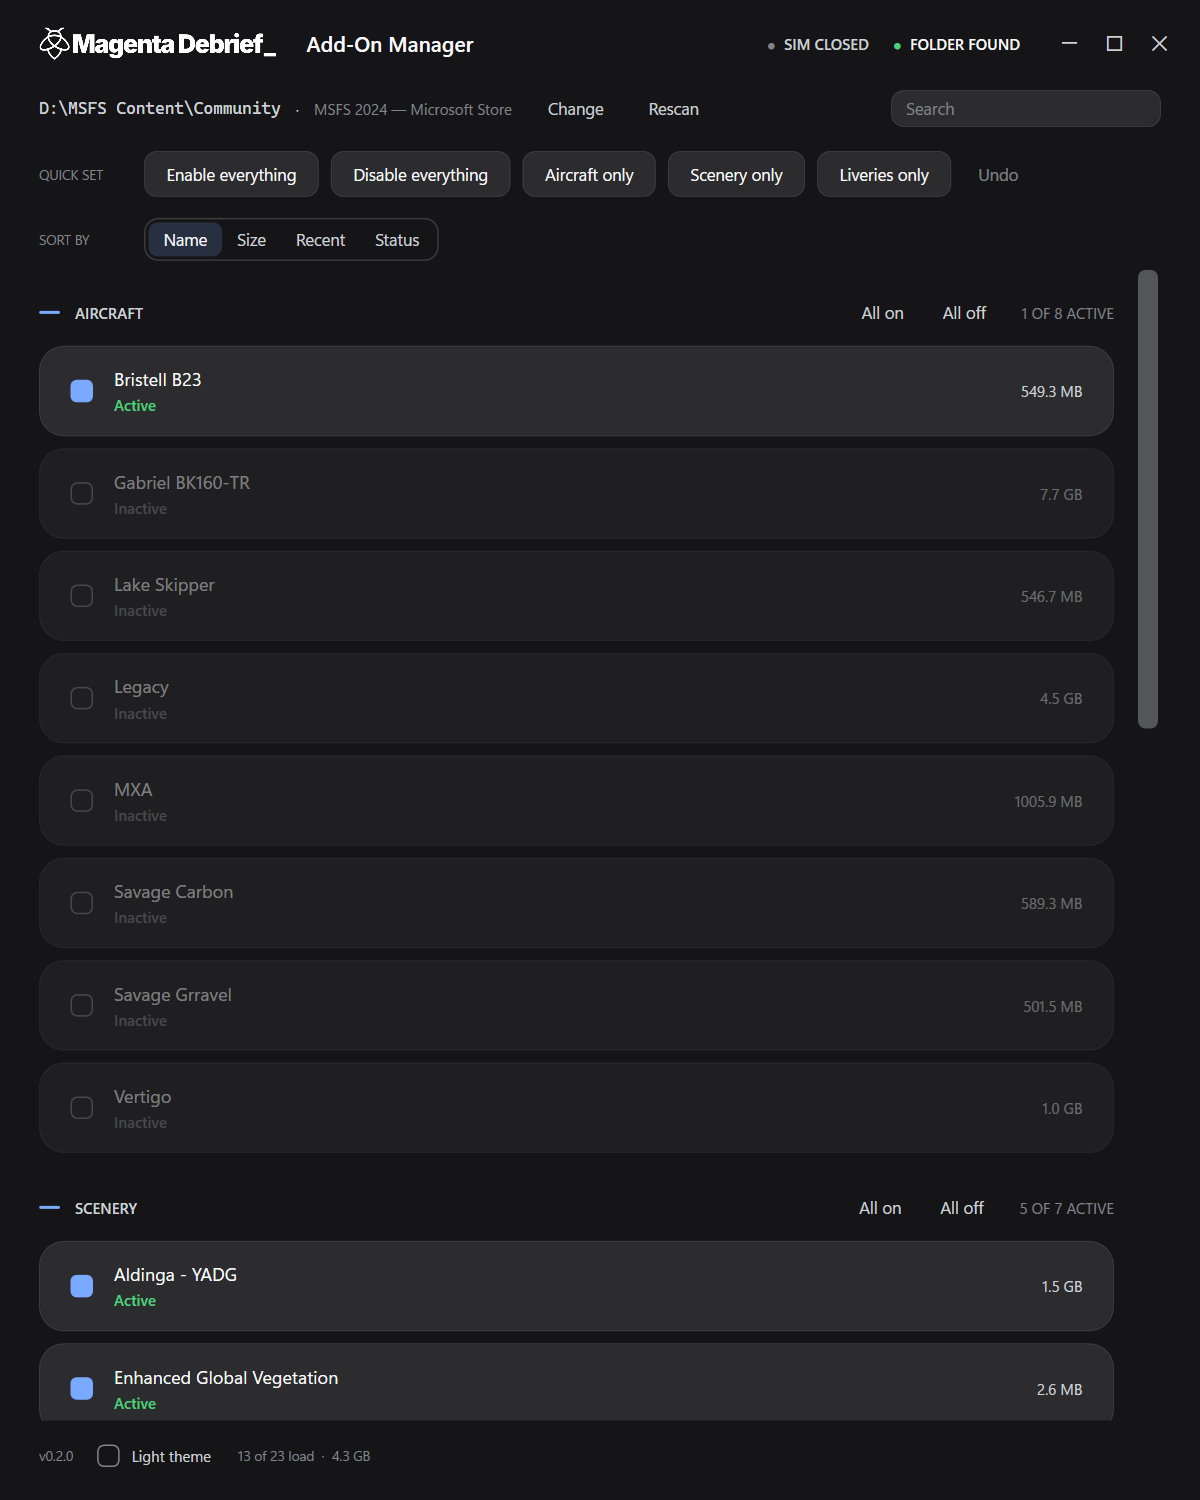
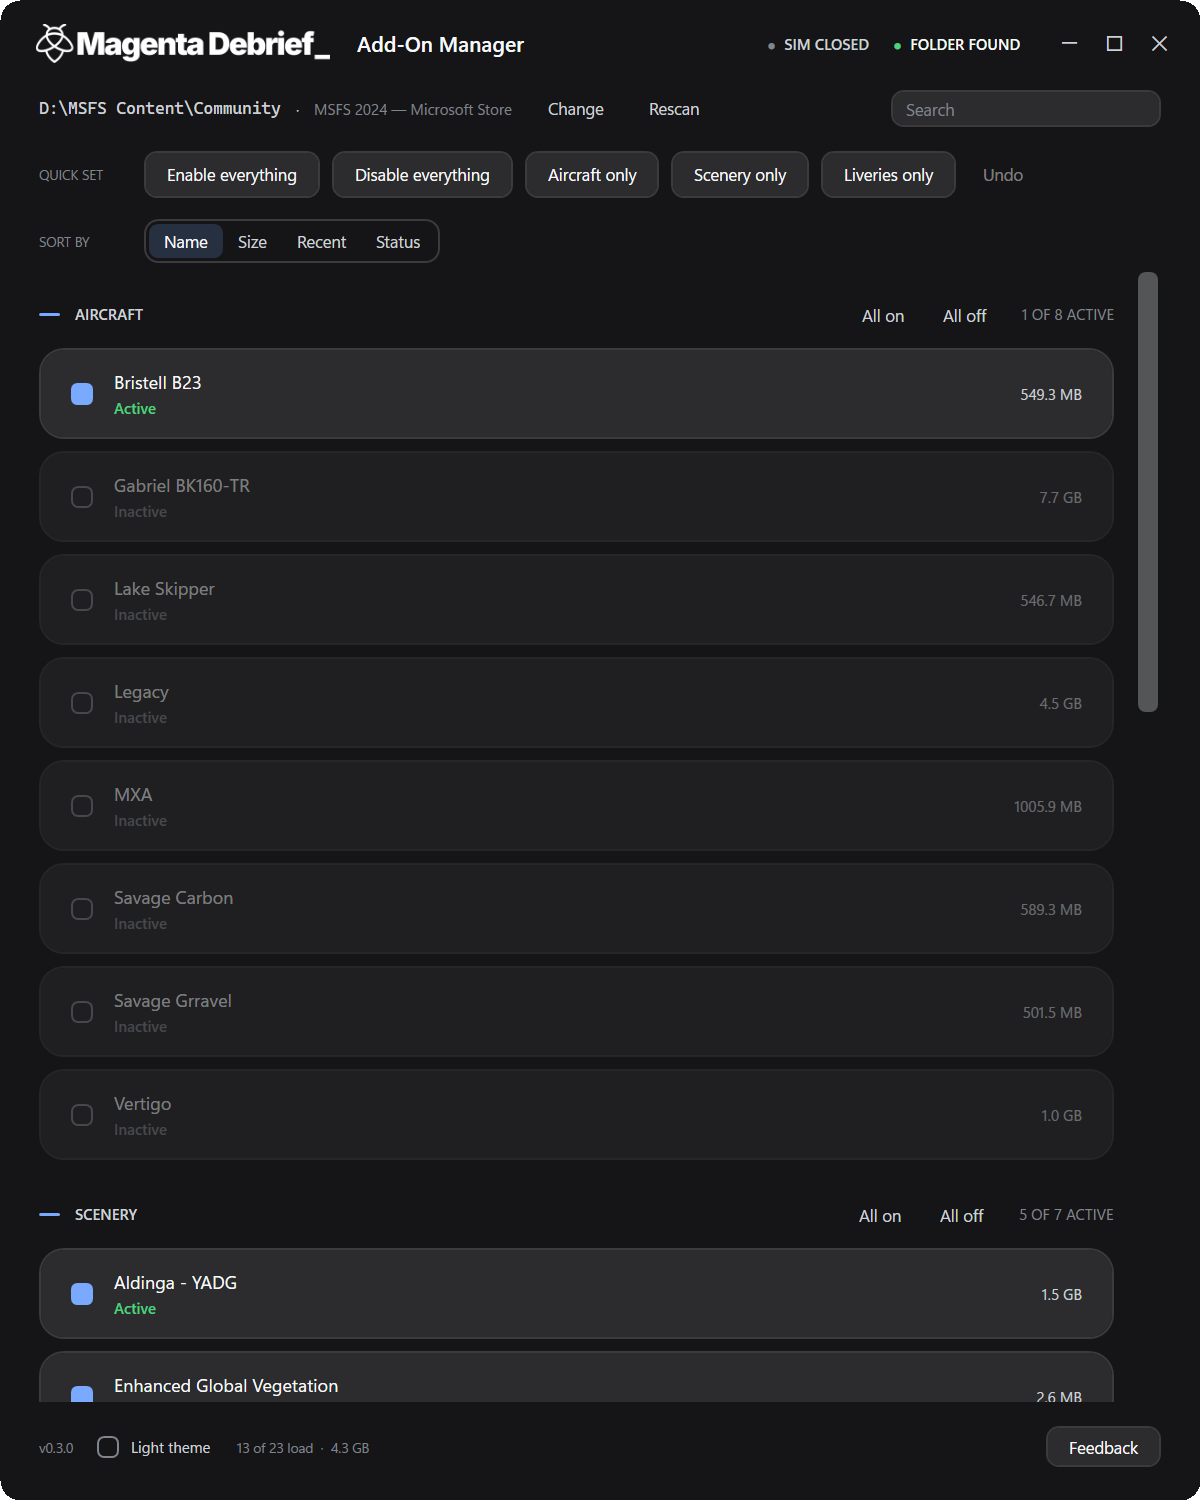
README: rounded-corner screenshots (dark + light) and feedback dialog
Re-captured from the current build with curved corners and transparent
backgrounds so they sit cleanly on GitHub's light or dark page. Show dark and
light side by side; feedback dialog at a controlled width.

diff --git a/README.md b/README.md
@@ -3,7 +3,11 @@
 An elegant Community folder manager for Microsoft Flight Simulator 2024.
 One job, done well: see what is in your Community folder, and choose what loads.
 
-![Magenta Add-On Manager](docs/screenshot.png)
+<p align="center">
+  <img src="docs/screenshot.png" width="380" alt="Magenta Add-On Manager — dark theme">
+  &nbsp;&nbsp;
+  <img src="docs/screenshot-light.png" width="380" alt="Magenta Add-On Manager — light theme">
+</p>
 
 ## What it does
 
@@ -74,7 +78,7 @@ Found a bug or have an idea? Click **Feedback** in the footer. The app builds a
 report with the details that make it reproducible and shows it to you before
 anything is sent:
 
-![Feedback dialog](docs/feedback.png)
+<p align="center"><img src="docs/feedback.png" width="460" alt="Feedback dialog"></p>
 
 - **Copy report** puts the whole thing on your clipboard.
 - **Email Alan** opens a pre-filled message to `alan@magentadebrief.com`.
